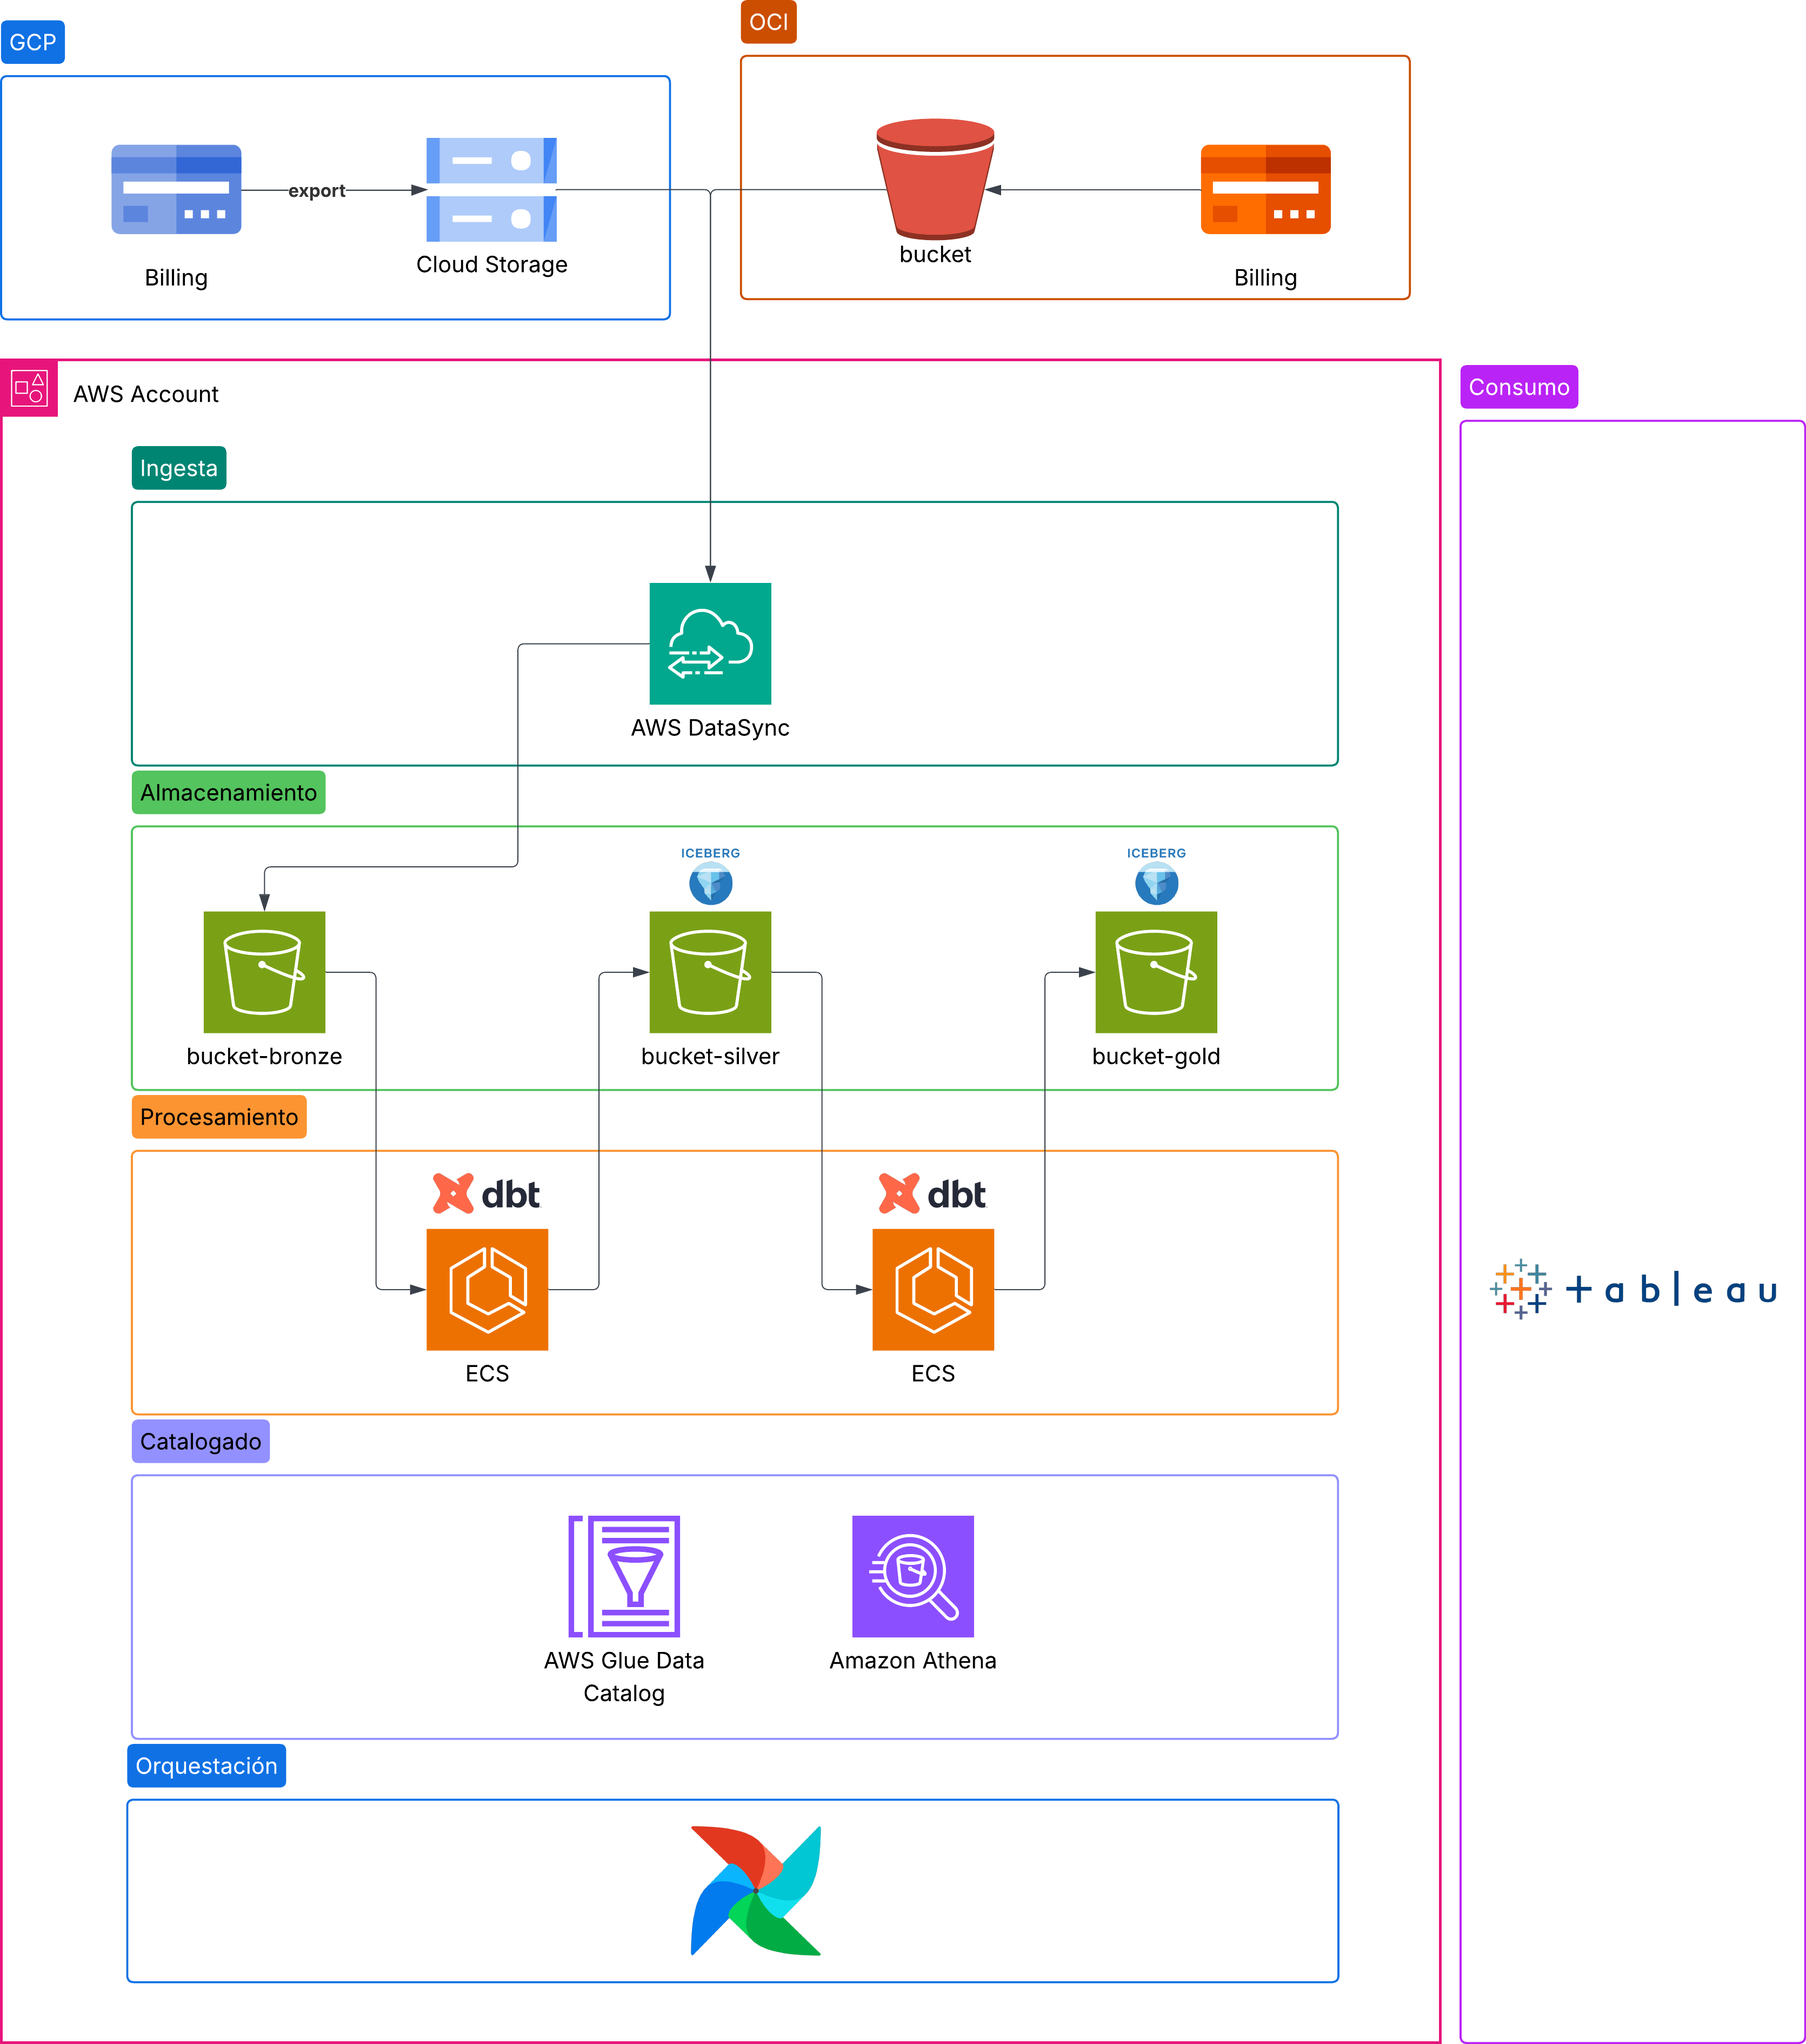
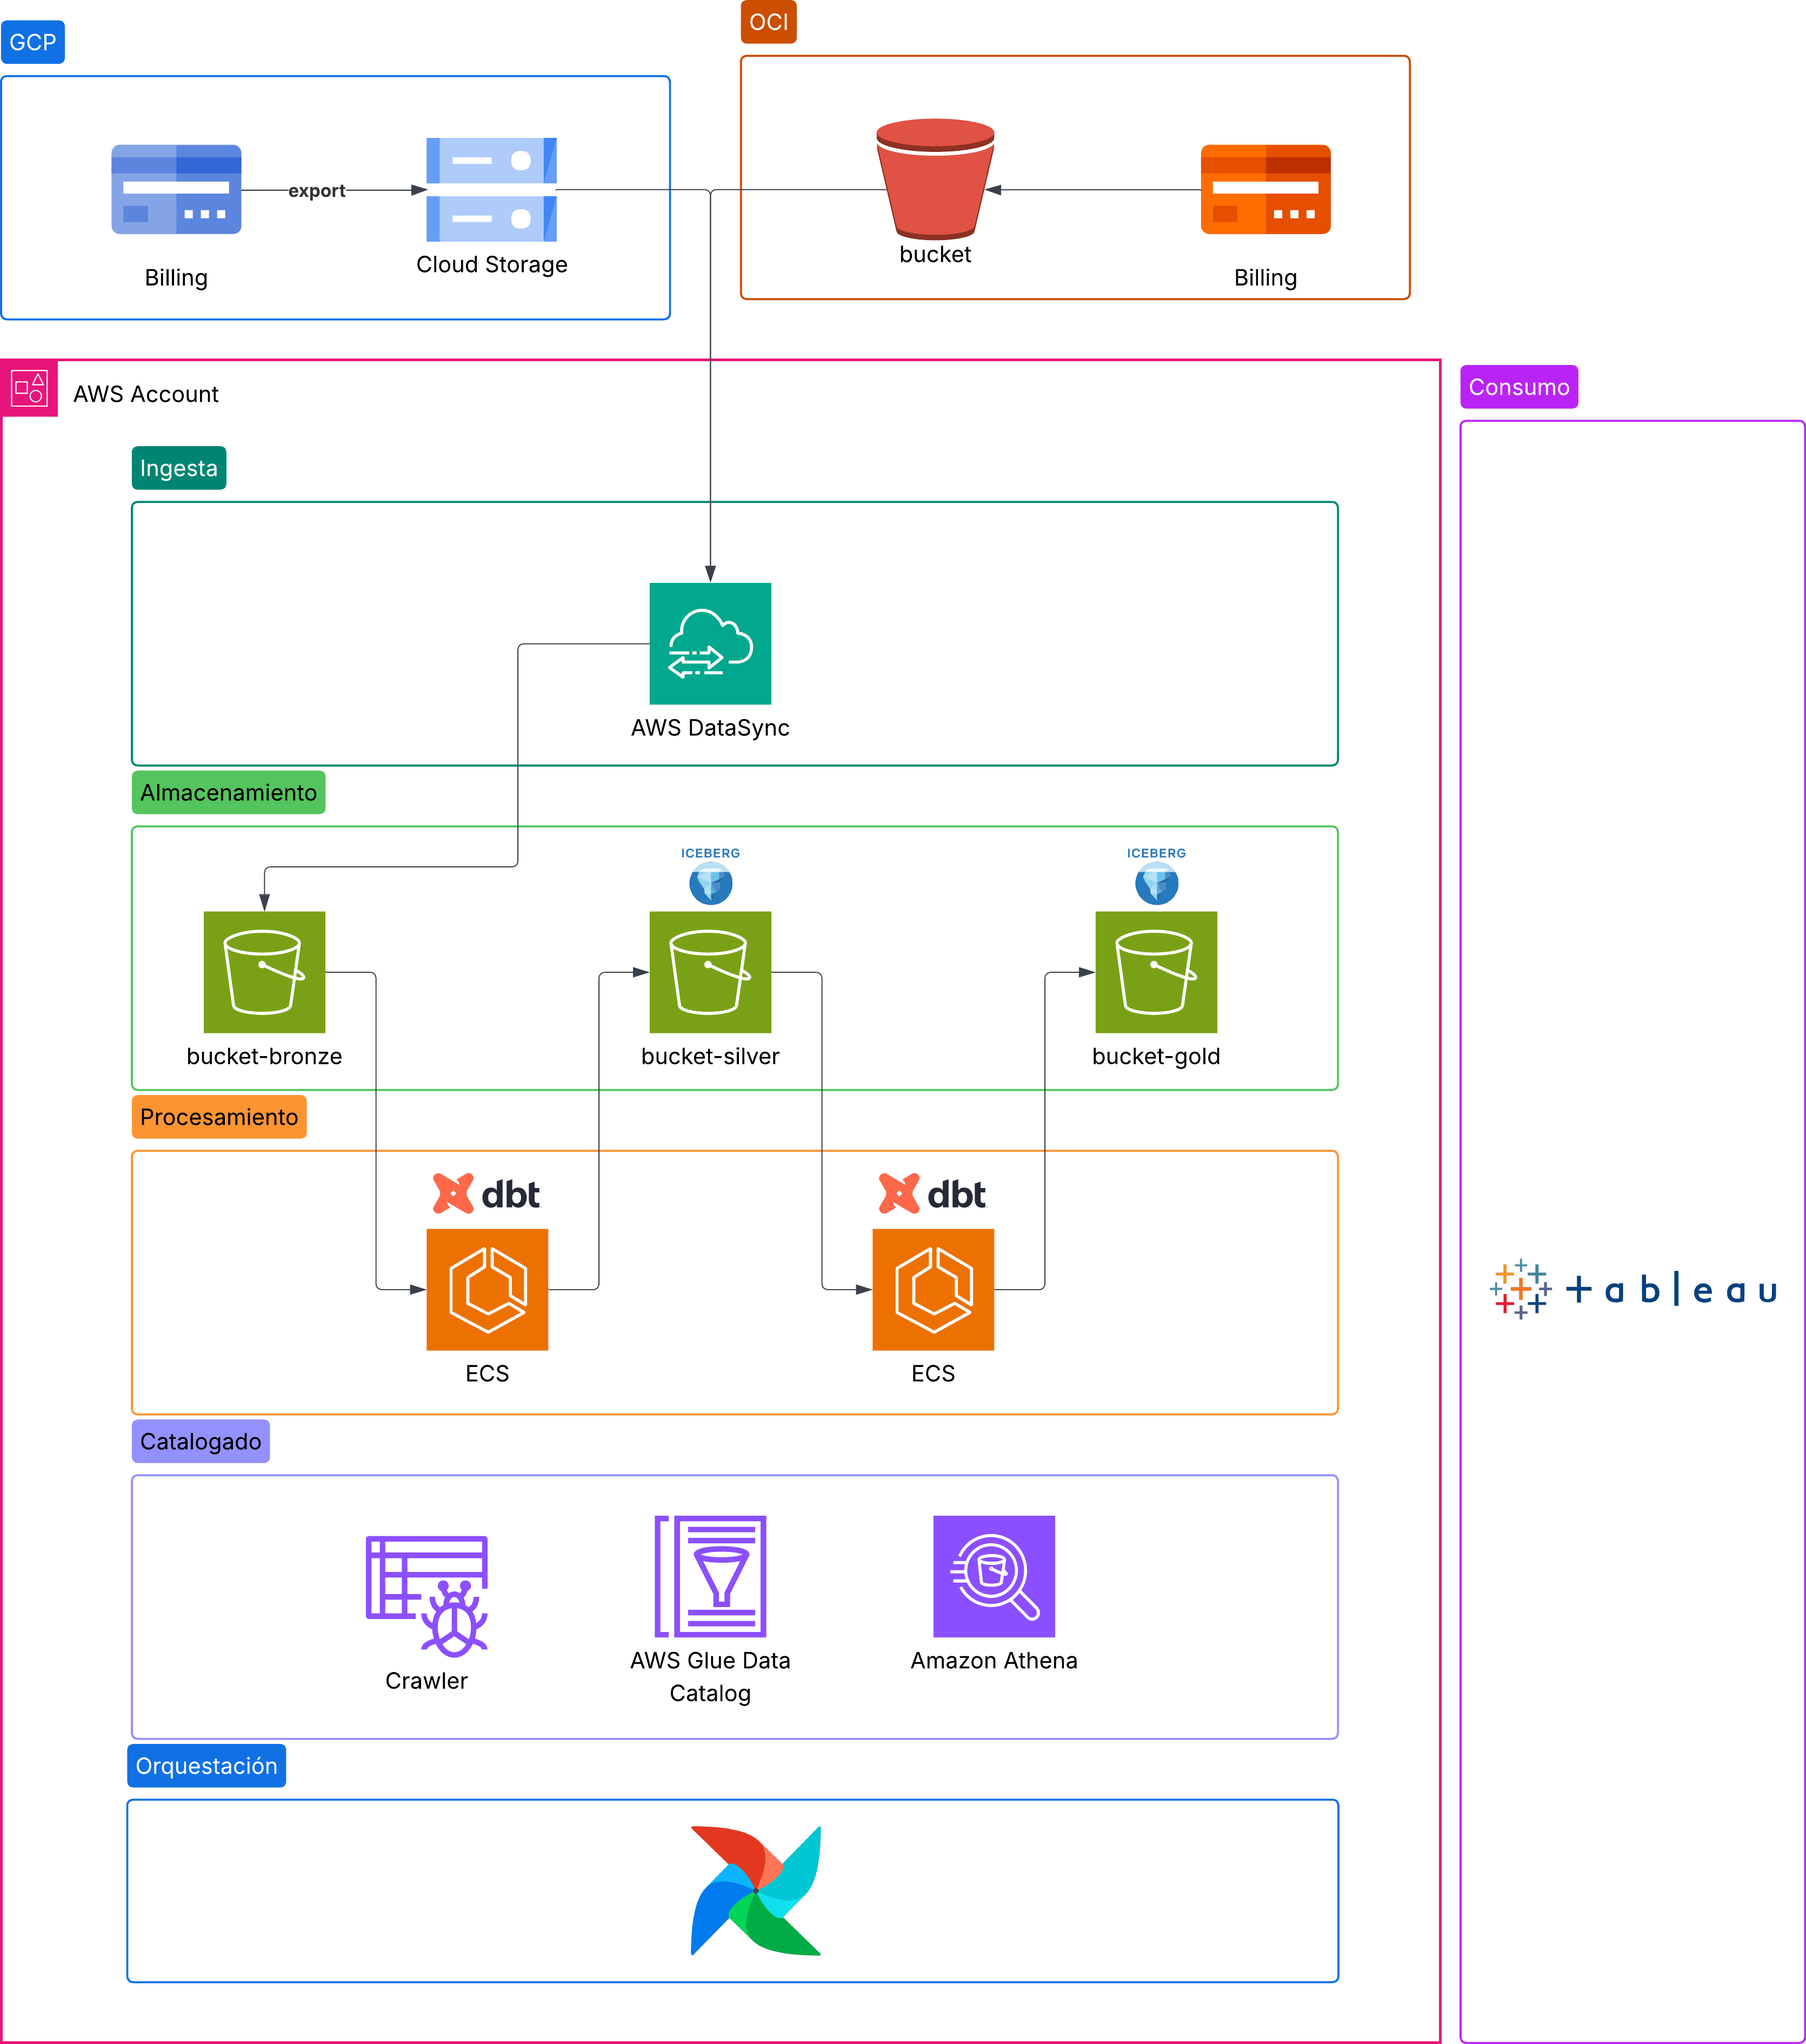
Add Glue Crawler to Airflow DAG and update README with new architecture diagram
- Integrated Glue Crawler Operator into the `MELI_FINOPS_DI.py` DAG for enhanced data processing.
- Updated README to include a new architecture diagram for the data ingestion pipeline.

Changed region(s): [[0.3113, 0.718, 0.4358, 0.8429], [0.4669, 0.718, 0.5914, 0.8116], [0.1868, 0.7492, 0.2802, 0.8116]]

diff --git a/airflow/dags/MELI_FINOPS_DI.py b/airflow/dags/MELI_FINOPS_DI.py
@@ -7,6 +7,7 @@ from airflow.utils.task_group import TaskGroup
 from airflow.providers.amazon.aws.operators.datasync import DataSyncOperator
 from airflow.providers.amazon.aws.sensors.s3 import S3KeySensor
 from airflow.providers.amazon.aws.operators.ecs import EcsRunTaskOperator
+from airflow.providers.amazon.aws.operators.glue_crawler import GlueCrawlerOperator
 from airflow.operators.empty import EmptyOperator
 
 
@@ -28,6 +29,11 @@ S3_FINOPS_PREFIXS: List[str] = [
     f"finops/smallB/year={YEAR}/month={MONTH}/day={DAY}/*.csv",
     f"finops/smallC/year={YEAR}/month={MONTH}/day={DAY}/*.csv",
 ]
+
+# Vars Glue Crawler
+GLUE_CRAWLER_NAME = "finops-crawler"
+GLUE_CRAWLER_ROLE = "arn:aws:iam::123456789012:role/AWSGlueServiceRole"
+GLUE_DATABASE_NAME = "finops_db"
 
 
 
@@ -69,7 +75,26 @@ def workflow():
             )
             .expand(bucket_key=S3_FINOPS_PREFIXS)
         )
-        ingest_datasync >> sensor_raw_files_finops
+        
+        glue_crawler = GlueCrawlerOperator(
+            task_id="glue_crawler",
+            aws_conn_id="aws_default",
+            config={
+                "Name": GLUE_CRAWLER_NAME,
+                "Role": GLUE_CRAWLER_ROLE,
+                "DatabaseName": GLUE_DATABASE_NAME,
+                "Targets": {
+                    "S3Targets": [
+                        {"Path": f"s3://{S3_BUCKET_NAME}/finops/smallB/"},
+                        {"Path": f"s3://{S3_BUCKET_NAME}/finops/smallC/"},
+                    ]
+                },
+            },
+            region_name="us-east-1",
+            wait_for_completion=True,
+        )
+        
+        ingest_datasync >> sensor_raw_files_finops >> glue_crawler
 
     
     with TaskGroup(group_id="datamodel_g_tasks") as datamodel_g_tasks:

diff --git a/README.md b/README.md
@@ -279,3 +279,4 @@ LIMIT 1;
 
 ## Pipeline (DAG Airflow)
 
+![DAG analitica](https://github.com/danilomoreno98/mercadolibre-finops/blob/main/media/DAG_analitica.png?raw=true)
